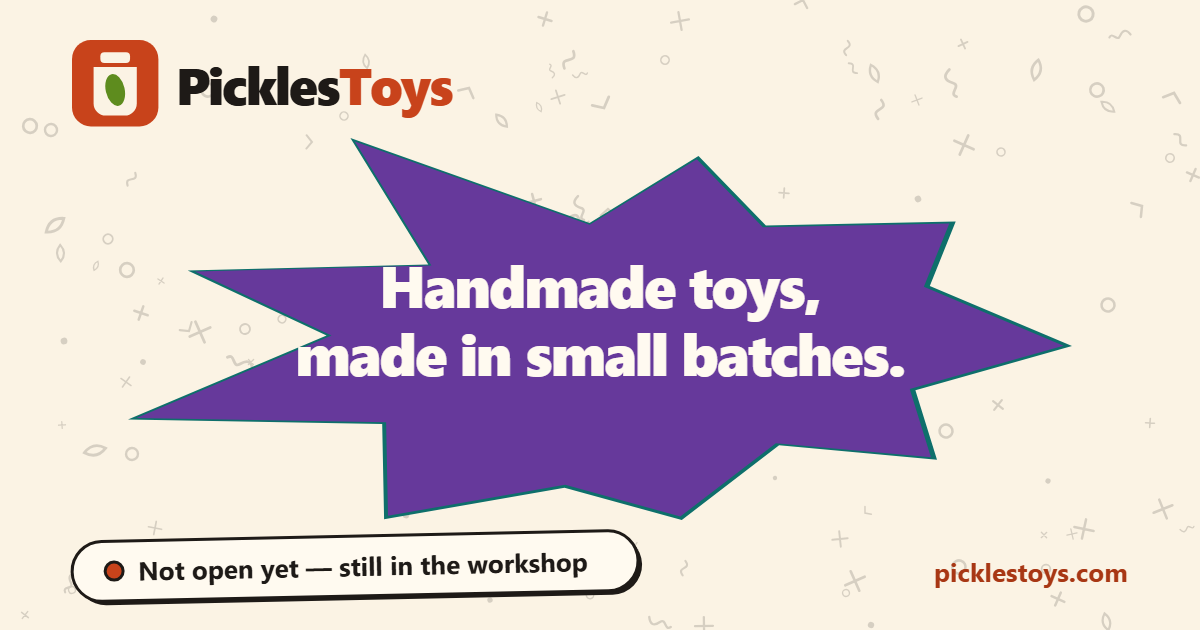
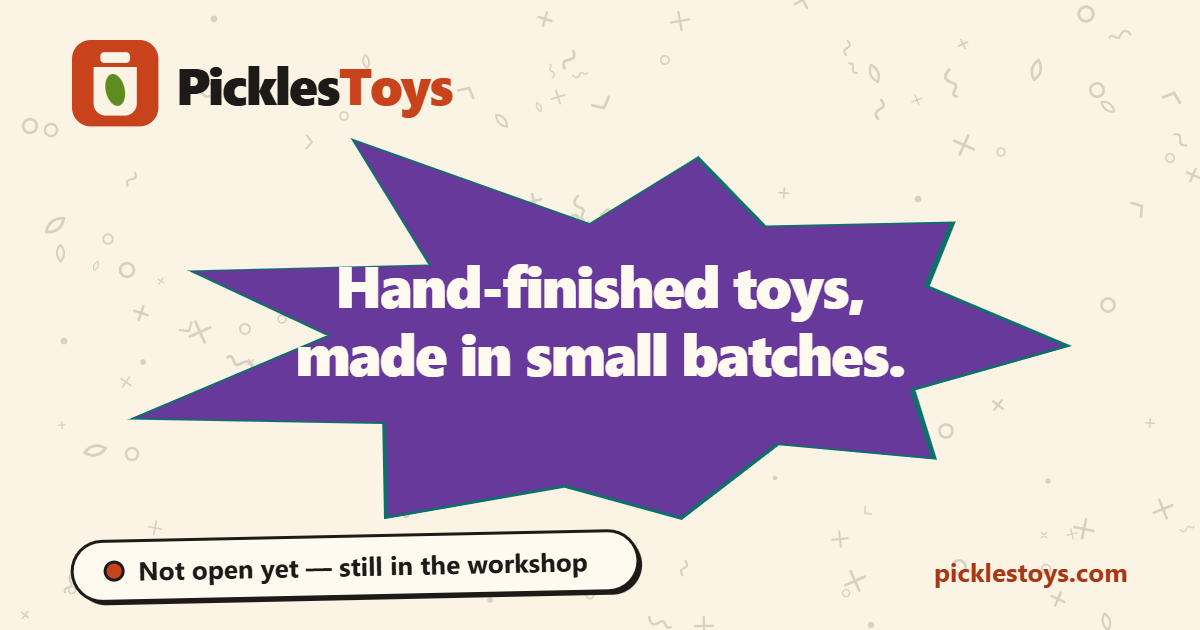
Reposition for adult collectors, and stop claiming handmade
The product decision landed: collector pieces rather than children's toys,
mixed media with a large 3D-printed component. Three things on the page
contradicted that.

Card 03 was the direct contradiction. It read "Built to be wrecked — these are
toys, not shelf pieces", which is a children's-toy pitch and the exact
opposite of the decision. It is now "Originals, not licenses", which is true,
is the real differentiator in a category full of bootlegs, and turns the IP
boundary this repo already enforces into a selling point rather than a
constraint.

"Handmade" is now "hand-finished" everywhere — hero, title, meta description,
every Open Graph and Twitter tag, the footer, the social card and the docs.
With 3D printing central to the process, "handmade" overstated the handwork,
and not overstating things is what most of this test suite exists to enforce.
Card 01 now says what actually happens rather than implying it is all
handwork: modelled and printed, or cut and sewn, then sanded, primed and
painted one at a time.

The hero lede and the "look" section describe pieces made to be looked at
rather than played with.

Worth recording why the audience choice was a regulatory decision and not a
marketing one: in the US a children's product means designed or intended
primarily for ages 12 and under, which triggers CPSIA — third-party lab
testing, a Children's Product Certificate, permanent tracking labels, ASTM
[…]

Changed region(s): [[0.2775, 0.4222, 0.74, 0.5127]]

diff --git a/site/index.html b/site/index.html
@@ -3,8 +3,8 @@
 <head>
   <meta charset="UTF-8">
   <meta name="viewport" content="width=device-width, initial-scale=1.0">
-  <title>PicklesToys — Handmade, Small-Batch Toys</title>
-  <meta name="description" content="PicklesToys makes handmade, small-batch toys with a scrappy 90s-cartoon spirit. The workshop is still being built — nothing is for sale yet.">
+  <title>PicklesToys — Hand-Finished, Small-Batch Toys</title>
+  <meta name="description" content="PicklesToys makes hand-finished, small-batch toys with a scrappy 90s-cartoon spirit — original characters for people who never grew out of them. The workshop is still being built; nothing is for sale yet.">
   <link rel="canonical" href="https://picklestoys.com/">
 
   <!-- Favicons. Relative paths, so they resolve both at the apex domain and
@@ -31,19 +31,19 @@
        into every cached unfurl, and crawlers cache aggressively. -->
   <meta property="og:type" content="website">
   <meta property="og:site_name" content="PicklesToys">
-  <meta property="og:title" content="PicklesToys — Handmade, Small-Batch Toys">
-  <meta property="og:description" content="Handmade, small-batch toys with a scrappy 90s-cartoon spirit. Not open yet — still in the workshop.">
+  <meta property="og:title" content="PicklesToys — Hand-Finished, Small-Batch Toys">
+  <meta property="og:description" content="Hand-finished, small-batch toys with a scrappy 90s-cartoon spirit. Not open yet — still in the workshop.">
   <meta property="og:url" content="https://picklestoys.com/">
   <meta property="og:image" content="https://picklestoys.com/og-image.png">
   <meta property="og:image:type" content="image/png">
   <meta property="og:image:width" content="1200">
   <meta property="og:image:height" content="630">
-  <meta property="og:image:alt" content="The PicklesToys pickle-jar mark beside the words: Handmade toys, made in small batches. A badge reads: not open yet, still in the workshop.">
+  <meta property="og:image:alt" content="The PicklesToys pickle-jar mark beside the words: Hand-finished toys, made in small batches. A badge reads: not open yet, still in the workshop.">
   <meta name="twitter:card" content="summary_large_image">
-  <meta name="twitter:title" content="PicklesToys — Handmade, Small-Batch Toys">
-  <meta name="twitter:description" content="Handmade, small-batch toys with a scrappy 90s-cartoon spirit. Not open yet.">
+  <meta name="twitter:title" content="PicklesToys — Hand-Finished, Small-Batch Toys">
+  <meta name="twitter:description" content="Hand-finished, small-batch toys with a scrappy 90s-cartoon spirit. Not open yet.">
   <meta name="twitter:image" content="https://picklestoys.com/og-image.png">
-  <meta name="twitter:image:alt" content="The PicklesToys pickle-jar mark beside the words: Handmade toys, made in small batches.">
+  <meta name="twitter:image:alt" content="The PicklesToys pickle-jar mark beside the words: Hand-finished toys, made in small batches.">
 
   <script>
     // Apply the saved or system theme before first paint so the page never
@@ -115,17 +115,18 @@
         <div class="titlecard reveal">
           <div class="titlecard__fill">
             <h1 class="titlecard__title">
-              Handmade toys,<br>
+              Hand-finished toys,<br>
               made in small batches.
             </h1>
           </div>
         </div>
 
         <p class="hero__lede reveal">
-          PicklesToys is a one-bench toy workshop in the making. The plan is
-          simple: build sturdy, funny, hand-finished toys a few at a time — the
-          kind that look like they wandered out of a Saturday-morning cartoon
-          and got played with until the paint wore soft.
+          PicklesToys is a one-bench workshop in the making. Modelled and
+          printed, cut and sewn, cast and painted — whatever a piece needs —
+          then finished by hand, a few at a time. Original characters with the
+          loud, lopsided energy of early-90s cartoons, made for people who
+          never quite grew out of them.
         </p>
 
         <p class="hero__meta reveal">
@@ -149,10 +150,11 @@
             <span class="card__num" aria-hidden="true">01</span>
             <div class="card__panel">
               <div class="card__fill">
-                <h3>Made by hand</h3>
+                <h3>Finished by hand</h3>
                 <p>
-                Cut, sanded, sewn, and painted one at a time. Marks of the hand
-                that made it are the point, not a defect to apologize for.
+                  Modelled and printed, or cut and sewn — then sanded, primed,
+                  and painted one at a time. Marks of the hand that finished it
+                  are the point, not a defect to apologize for.
                 </p>
               </div>
             </div>
@@ -173,10 +175,10 @@
             <span class="card__num" aria-hidden="true">03</span>
             <div class="card__panel">
               <div class="card__fill">
-                <h3>Built to be wrecked</h3>
+                <h3>Originals, not licenses</h3>
                 <p>
-                These are toys, not shelf pieces. Chunky, drop-tolerant, and
-                finished so a scuff reads as history instead of damage.
+                  Every character is drawn from scratch. The look borrows an
+                  era's attitude; the cast is ours alone.
                 </p>
               </div>
             </div>
@@ -208,9 +210,9 @@
             and paper grain instead of gradients.
           </p>
           <p class="prose">
-            Everything here is drawn from scratch in that spirit. The toys will
-            be original designs and original characters — the influence is the
-            era's <em>attitude</em>, not anybody else's cast.
+            These are made to be looked at as much as handled — objects with
+            enough personality to earn a shelf, in a style that stopped being
+            made about thirty years ago.
           </p>
         </div>
 
@@ -260,7 +262,7 @@
   <footer class="foot">
     <p class="foot__mark">PicklesToys</p>
     <p class="foot__note">
-      Handmade toys, small batches. Original designs only — not affiliated with
+      Hand-finished toys, small batches. Original designs only — not affiliated with
       or endorsed by any studio, network, or franchise.
     </p>
     <p class="foot__note foot__note--dim">

diff --git a/TODO.md b/TODO.md
@@ -12,9 +12,9 @@ Tracked work for PicklesToys. Items are grouped by what unblocks them.
       carries GoDaddy-specific steps. Still worth recording the **expiry
       date** there, and confirming the registrar is GoDaddy too — the
       nameservers only prove where DNS is hosted.
-- [ ] **Decide the actual product line.** The site describes an intent
-      (handmade, small batch, built to be played with) but names no products,
-      because none exist yet.
+- [x] **Product line decided 2026-09-10: adult collector pieces**, mixed media
+      with a large 3D-printed component. The site describes that intent but
+      names no products, because none exist yet.
 
 ## Launch the site at the domain
 
@@ -47,15 +47,31 @@ Tracked work for PicklesToys. Items are grouped by what unblocks them.
       or keep adding structural guards per defect as `T-076`/`T-077` do. Low
       risk while the page is this small; revisit if the site grows.
 
-## Business questions worth answering before building more
+## Business questions
 
-- [ ] What is actually being made first — plush, wood, resin, something else?
-      Materials change photography, shipping, safety labelling, and price.
-- [ ] **Toy safety.** Anything sold as a children's toy in the US falls under
-      CPSIA: third-party testing, tracking labels, and a Children's Product
-      Certificate. If the intended buyer is adult collectors, the rules differ
-      substantially. This decision shapes the product, not just the paperwork.
+- [x] **Who it is for: adult collectors, not children** (2026-09-10). This is
+      the decision that removes the CPSIA children's-product regime — no
+      third-party lab testing, no Children's Product Certificate, no tracking
+      labels, no ASTM F963. It is also why the page now talks about shelves
+      rather than being wrecked.
+- [x] **Materials: mixed, with a lot of 3D printing** (2026-09-10). Hence
+      "hand-finished" rather than "handmade" — the page should not claim more
+      handwork than the process involves.
+- [ ] **The adult framing has to be genuine, not a label.** "Not for children"
+      on something that plainly reads as a kids' toy does not hold up: design,
+      marketing, and price all have to point the same way. Worth a real check
+      with someone qualified before money changes hands — this is the one
+      remaining regulatory question, and it is a judgement call, not a form.
+- [ ] **Age marking at point of sale.** Not needed on the site while nothing is
+      for sale, but the listings and packaging will need it. Decide 14+ or 18+.
+- [ ] **Resin safety, if resin printing is in the mix.** Uncured photopolymer
+      is a skin sensitiser; pieces must be fully cured before they go out, and
+      the workspace needs ventilation. This is a maker-safety issue rather than
+      a product-compliance one, but it is real.
 - [ ] Where does selling happen — this site, or an existing marketplace? A
       static GitHub Pages site cannot take payments; that would mean either an
       embedded third-party checkout (breaking the dependency-free rule) or a
-      move to the Next.js/Vercel shape `gentle-table` uses.
+      move to the Next.js/Vercel shape `gentle-table` uses. Marketplaces
+      (Etsy, a designer-toy shop) sidestep both and are the usual first step.
+- [ ] **First actual piece.** Nothing on the site can name a product until one
+      exists. That is the next real milestone.

diff --git a/CHANGELOG.md b/CHANGELOG.md
@@ -4,6 +4,44 @@ All notable user-facing changes to this project should be documented in this fil
 
 This project follows semantic versioning.
 
+## 0.8.0 — 2026-09-10
+
+### Changed
+
+- **The site is repositioned for adult collectors.** The product decision
+  landed today: collector pieces, not children's toys, in mixed media with a
+  large 3D-printed component. Three things on the page contradicted that and
+  are rewritten.
+- **Card 03 was the direct contradiction.** It read *"Built to be wrecked —
+  these are toys, not shelf pieces"*, which is a children's-toy pitch and the
+  opposite of the decision. It is now **"Originals, not licenses"**, which is
+  both true and the actual differentiator in a category full of bootlegs.
+- **"Handmade" became "hand-finished" throughout** — hero, `<title>`, meta
+  description, all Open Graph and Twitter tags, the footer, the social card,
+  and the docs. With 3D printing central to the process, "handmade" overstated
+  the handwork, and not overstating things is what most of this repository's
+  test suite exists to enforce. Card 01 now says what actually happens:
+  *"Modelled and printed, or cut and sewn — then sanded, primed, and painted
+  one at a time."*
+- The hero lede and the "look" section now describe pieces made to be looked
+  at rather than played with, and name the mixed process honestly.
+- `T-031` asserts the hand-finishing claim rather than grepping for
+  "handmade", and `FR-002-AC-1` moved with it.
+
+### Notes
+
+- **The audience choice is a regulatory one, not a marketing one.** In the US
+  a children's product means designed or intended primarily for ages 12 and
+  under, and that triggers CPSIA: third-party lab testing, a Children's
+  Product Certificate, permanent tracking labels, ASTM F963. Collector pieces
+  carry none of it. `docs/BRAND.md` records the reasoning.
+- The framing has to be *genuine* to hold — a "14+" label on something that
+  plainly reads as a kids' toy does not work, which is why this was a copy and
+  design change rather than a disclaimer. Still worth a qualified check before
+  anything is sold; that is tracked in `TODO.md`.
+- `site/og-image.png` regenerated from the edited source via
+  `tools/make_og_image.py`.
+
 ## 0.7.1 — 2026-09-10
 
 ### Fixed

diff --git a/docs/BRAND.md b/docs/BRAND.md
@@ -117,6 +117,29 @@ cream in dark mode. Cream on bright yellow is **1.25:1**. It shipped in 0.1.0
 and survived three releases and a careful hand-audit before
 `tests/test_layout.sh` measured it. `T-077` now guards it structurally.
 
+## Who this is for
+
+**Adult collectors, decided 2026-09-10.** Not children. The distinction is not
+marketing positioning — in the US it is the line between a children's product,
+which carries the whole CPSIA regime (third-party lab testing, a Children's
+Product Certificate, permanent tracking labels, ASTM F963), and a collectible,
+which does not.
+
+Two things follow, and both constrain the design rather than just the copy:
+
+- **The adult framing has to be genuine.** A "14+" sticker on something that
+  plainly reads as a kids' toy does not hold up. Design, price, and how the
+  site talks all have to point the same way. That is why card 03 stopped
+  saying "these are toys, not shelf pieces" — it was the opposite claim.
+- **Say hand-*finished*, not handmade.** The process is substantially 3D
+  printing, then sanding, priming and painting by hand. "Handmade" overstates
+  it, and this site has a whole test suite built on not overstating things.
+  `T-031` asserts the finishing claim.
+
+The pieces are still *toys* — "art toy" and "designer toy" are the established
+words for exactly this — so the vocabulary does not need softening. It is the
+audience that is adult, not the object that is serious.
+
 ## The mark
 
 A pickle jar. It appears twice, drawn differently for each job:

diff --git a/docs/PRODUCT_REQUIREMENTS.md b/docs/PRODUCT_REQUIREMENTS.md
@@ -20,8 +20,11 @@ Each requirement carries a stable ID and explicit acceptance criteria. The mappi
 
 ## Product Summary
 
-A single-page placeholder website for **PicklesToys**, a handmade small-batch
-toy workshop that has not launched. Published via GitHub Pages at
+A single-page placeholder website for **PicklesToys**, a hand-finished
+small-batch toy workshop that has not launched. As of 2026-09-10 the pieces
+are aimed at **adult collectors**, not children, and are mixed media with a
+large 3D-printed component — which is why the page claims hand *finishing*
+rather than handmade. Published via GitHub Pages at
 `picklestoys.com`. The target reader is anyone who types the domain in early —
 a friend, a potential stockist, a curious visitor. The release goal is a page
 that is honest about the stage the business is at, has real visual identity,
@@ -45,7 +48,7 @@ requirements below exist specifically to keep that true as the site is edited.
 
 - Level: `MUST`
 - Acceptance criteria:
-  - `FR-002-AC-1`: the page says it is not open yet, and describes handmade production and small batches.
+  - `FR-002-AC-1`: the page says it is not open yet, and describes hand finishing and small batches. (Was "handmade" until 2026-09-10; with 3D printing central to the process, that claim overstated the handwork.)
 
 **FR-003** The page never advertises commerce that does not exist.
 

diff --git a/docs/REQUIREMENTS_TRACEABILITY.md b/docs/REQUIREMENTS_TRACEABILITY.md
@@ -24,7 +24,7 @@ A requirement with no verifying test is a coverage gap. Record it in `docs/TEST_
 | Requirement ID | Level | Description | Acceptance Criteria | Verifying Tests | Status |
 | --- | --- | --- | --- | --- | --- |
 | FR-001 | MUST | Every promised section is present and nav links resolve | FR-001-AC-1 | T-020, T-021, T-022, T-023 | Verified |
-| FR-002 | MUST | Page states it is not open; describes handmade small-batch intent | FR-002-AC-1 | T-030, T-031, T-032 | Verified |
+| FR-002 | MUST | Page states it is not open; describes hand-finished small-batch intent | FR-002-AC-1 | T-030, T-031, T-032 | Verified |
 | FR-003 | MUST | No commerce that does not exist | FR-003-AC-1, FR-003-AC-2 | T-033, T-034 | Verified |
 | FR-004 | MUST | Unavailable facts are marked placeholders, never invented | FR-004-AC-1, FR-004-AC-2, FR-004-AC-3 | T-050 (real mailto), T-051 (text matches target), T-052b (any reintroduced TBD is flagged), T-052, T-053 | Verified |
 | FR-005 | MUST | Era-inspired only; no third-party franchise or character names | FR-005-AC-1, FR-005-AC-2, FR-005-AC-3 | T-040, T-041, T-042 | Verified |

diff --git a/docs/AGENT_HANDOFF.md b/docs/AGENT_HANDOFF.md
@@ -4,8 +4,9 @@ Context an agent picking this repository up needs before making changes.
 
 ## What this is
 
-The website for PicklesToys, a handmade small-batch toy workshop that **has not
-launched**. Static HTML/CSS/JS in `site/`, no build step, no dependencies,
+The website for PicklesToys, a hand-finished small-batch toy workshop that
+**has not launched**. Pieces are for **adult collectors**, not children —
+mixed media with a lot of 3D printing. Static HTML/CSS/JS in `site/`, no build step, no dependencies,
 published to GitHub Pages on every push to `main`.
 
 Start with `README.md`, then `docs/BRAND.md`. The second one is not optional —
@@ -89,7 +90,7 @@ a test edit.
 
 ## Current state
 
-Version 0.7.1. The site builds, all 66 structural and 20 browser checks pass,
+Version 0.8.0. The site builds, all 66 structural and 20 browser checks pass,
 and all 19 requirements have verifying tests.
 
 **Live at https://picklestoys.com since 2026-09-10**, over HTTPS with a valid

diff --git a/README.md b/README.md
@@ -4,10 +4,10 @@
 [![Eric's Engineering Constitution](https://img.shields.io/badge/Eric's%20Engineering%20Constitution-Adopted-blue)](https://github.com/esanacore/engineering-constitution)
 <!-- CONSTITUTION_END -->
 
-Current version: **0.7.1** · Domain: **picklestoys.com** (registered, not yet
+Current version: **0.8.0** · Domain: **picklestoys.com** (registered, not yet
 pointed at this site — see `docs/DOMAIN_SETUP.md`)
 
-The website for **PicklesToys** — a handmade, small-batch toy workshop in the
+The website for **PicklesToys** — a hand-finished, small-batch toy workshop in the
 making. The business has not launched: there are no products, no prices, and
 nothing for sale. This site is an honest placeholder that says exactly that,
 built so the real thing can grow into it.

diff --git a/CLAUDE.md b/CLAUDE.md
@@ -4,8 +4,9 @@ This repository follows Eric's Engineering Constitution.
 
 ## What This Repo Is
 
-The website for PicklesToys — a handmade, small-batch toy workshop that has
-not launched yet. Static HTML/CSS/JS in `site/`, no build step, no runtime
+The website for PicklesToys — a hand-finished, small-batch toy workshop that
+has not launched yet. The pieces are made for **adult collectors**, not
+children (decided 2026-09-10), across mixed media with a lot of 3D printing. Static HTML/CSS/JS in `site/`, no build step, no runtime
 dependencies. Publishing is push-to-deploy: every push to `main` triggers
 `.github/workflows/deploy-pages.yml`, which runs `tests/test_site.sh` and
 deploys `site/` to GitHub Pages.

diff --git a/wiki/Home.md b/wiki/Home.md
@@ -1,6 +1,6 @@
 # Home
 
-**PicklesToys** is a handmade, small-batch toy workshop in the making, and this
+**PicklesToys** is a hand-finished, small-batch toy workshop in the making, and this
 repository is its website. The business has not launched — there are no
 products, no prices, and nothing for sale — so the site is a deliberately
 honest placeholder that says exactly that, built so the real thing can grow
